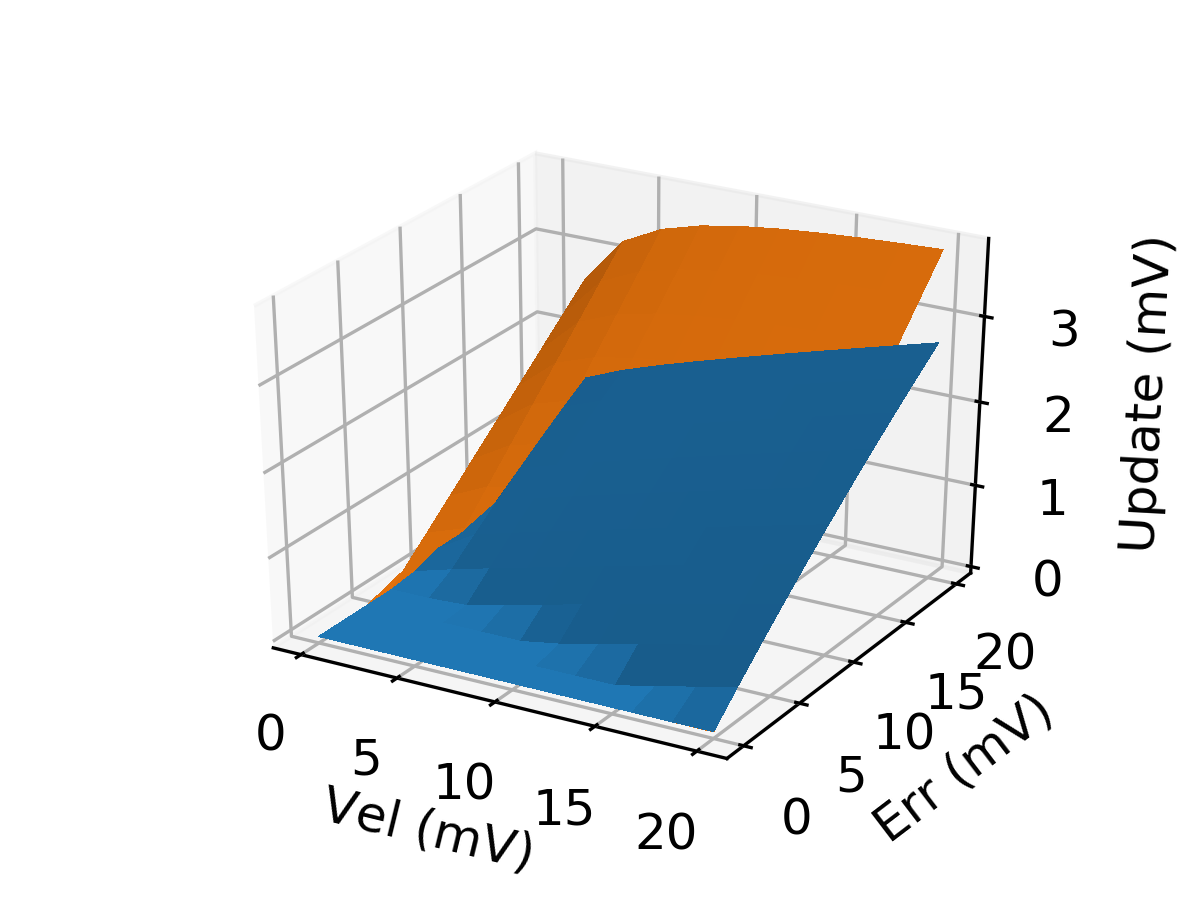
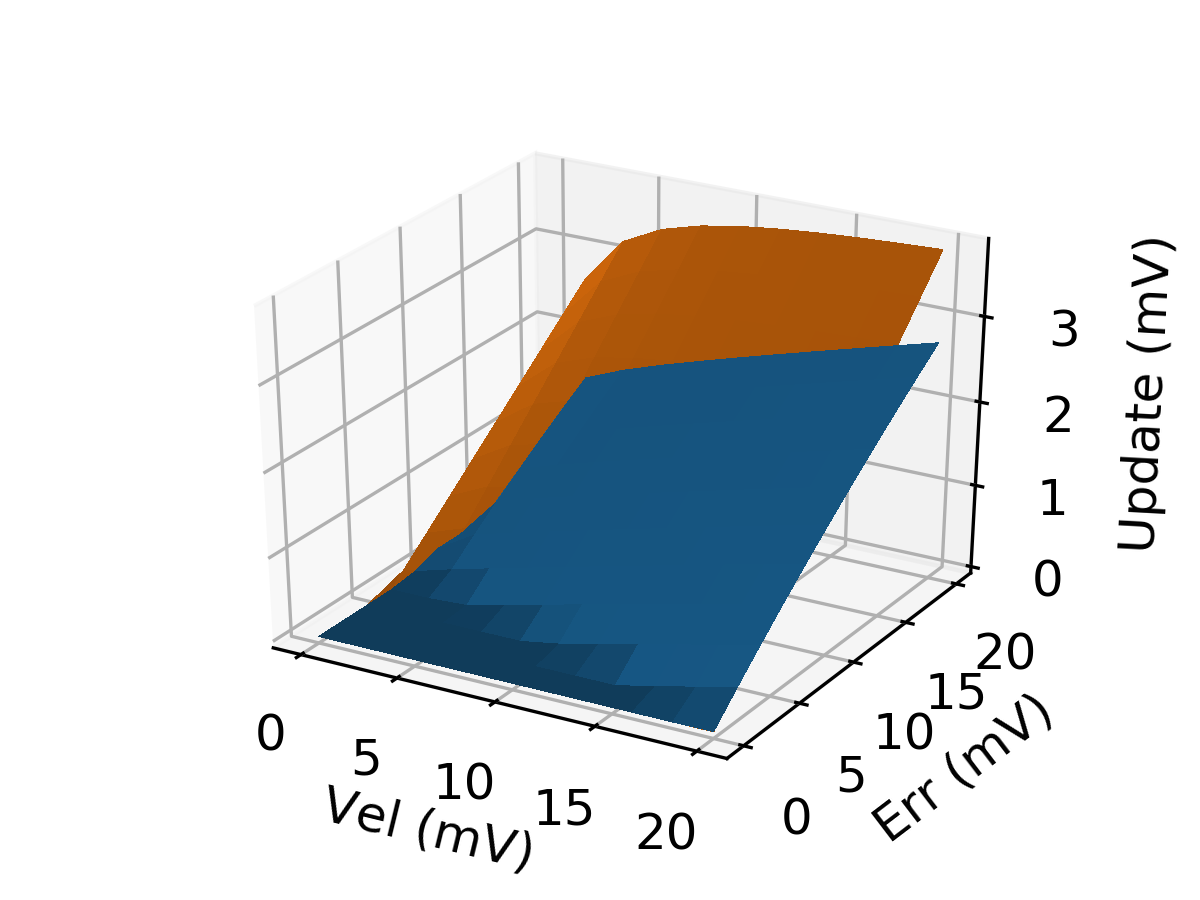
Being updating results pages with new text

Changed region(s): [[0.2467, 0.2489, 0.8017, 0.8089]]

diff --git a/writeup/chapters/results.tex b/writeup/chapters/results.tex
@@ -136,19 +136,17 @@ Test results are generated based on data tools in \github{PuppyNeuronPlayground}
 
 \begin{figure}
 \centering
-\includegraphics[height=3.5in]{results/New_T2A_2} % TODO(buckbaskin): complete this thought with a picture and data
+\includegraphics[height=3.5in]{results/New_T2A_2}
 \caption{Testing conversion from torque to acceleration, with varying joint damping. Mean error is 0.7 mV}
 \label{fig:TestAccelDamping}
 \end{figure}
 
 \begin{figure}
 \centering
-\includegraphics[height=3.5in]{results/New_P2T} % TODO(buckbaskin): complete this thought with a picture and data
+\includegraphics[height=3.5in]{results/New_P2T}
 \caption{Testing conversion from actuator pressure to torque. Mean error is 1.4 mV}
 \label{fig:TestP2T}
 \end{figure}
-
-% TODO(buckbaskin): does it make sense to add a damping graphic in here?
 
 \begin{figure}
 \centering
@@ -173,21 +171,14 @@ Test results are generated based on data tools in \github{PuppyNeuronPlayground}
 
 \begin{figure}
 \centering
-\includegraphics[height=2.25in]{results/TestSystemCPosWide}
-\caption{Positive neuron and actual damping factor updates}
+\includegraphics[height=3.5in]{results/New_SystemC}
+\caption{Neuron and actual damping factor update. Mean error is 0.7 mV. The reference surface isn't rendered completely, but it primarily lies above the neuron estimate}
 \label{fig:TestSystemCPos}
 \end{figure}
 
 \begin{figure}
 \centering
-\includegraphics[height=2.25in]{results/TestSystemCNegWide}
-\caption{Negative neuron and actual damping factor updates}
-\label{fig:TestSystemCNeg}
-\end{figure}
-
-\begin{figure}
-\centering
-\includegraphics[height=2.25in]{results/New_SystemN}
+\includegraphics[height=3.5in]{results/New_SystemN}
 \caption{Compare neuron system model update for conservative forces to reference. Mean error is 1.7 mV}
 \label{fig:TestSystemNPos}
 \end{figure}
@@ -203,8 +194,6 @@ torque based on actuator pressure (\myref{fig:TestP2T}) and estimating accelerat
 output of the neuron model is compared to the expected output in
 \myref{fig:TestAccelInertia} and \myref{fig:TestAccelDamping}. All 3 tests met the standard, with
 mean errors of 1.4 mV, 0.6 mV and 0.7 mV.
-
-% TODO(buckbaskin): check figures in here
 
 \bbsss{Torque Optimization}
 
@@ -226,9 +215,8 @@ The system modeling network was tested as a complete network because both the
 damping and load factors are updated from the same $\lambda$ value. See 
 \myref{fig:TestSystemCPos} and \myref{fig:TestSystemNPos}
 for visualizations of 3D cross sections of the update surface. In the tests shown,
-the damping update had an average error of % TODO(buckbaskin): update with data
+the damping update had an average error of 0.7 mV
 and the conservative forces update had mean error of 1.7 mV.
-.
 
 \bbss{Discussion}
 \label{chap:discussion}

diff --git a/multiviz/systemC.py b/multiviz/systemC.py
@@ -716,8 +716,8 @@ if __name__ == '__main__':
     Z = np.clip(Z, 0, 20)
     Z_ref = np.clip(Z_ref, 0, 20)
 
-    surf = ax.plot_surface(X, Y, Z, linewidth=0, antialiased=False, label='Neuron')
-    surf2 = ax.plot_surface(X, Y, Z_ref, linewidth=0, antialiased=False)
+    surf = ax.plot_surface(X, Y, Z, linewidth=0, antialiased=False, label='Neuron', zorder=2)
+    surf2 = ax.plot_surface(X, Y, Z_ref, linewidth=0, antialiased=False, zorder=1)
     ax.set_xlabel('Vel (mV)')
     ax.set_ylabel('Err (mV)')
     ax.set_zlabel('Update (mV)')
